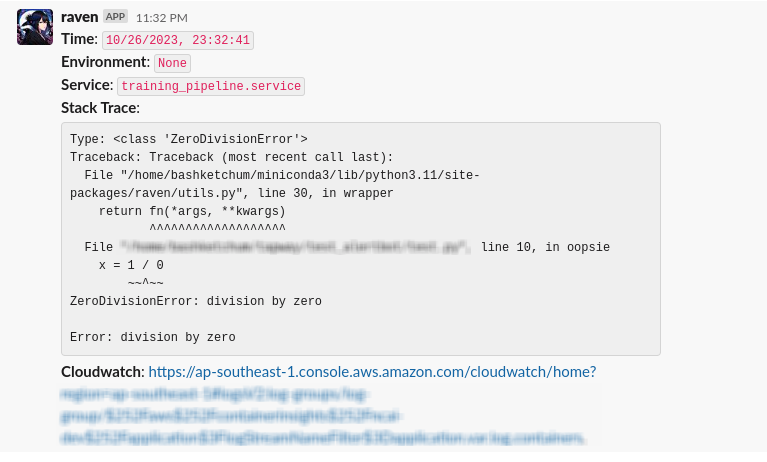
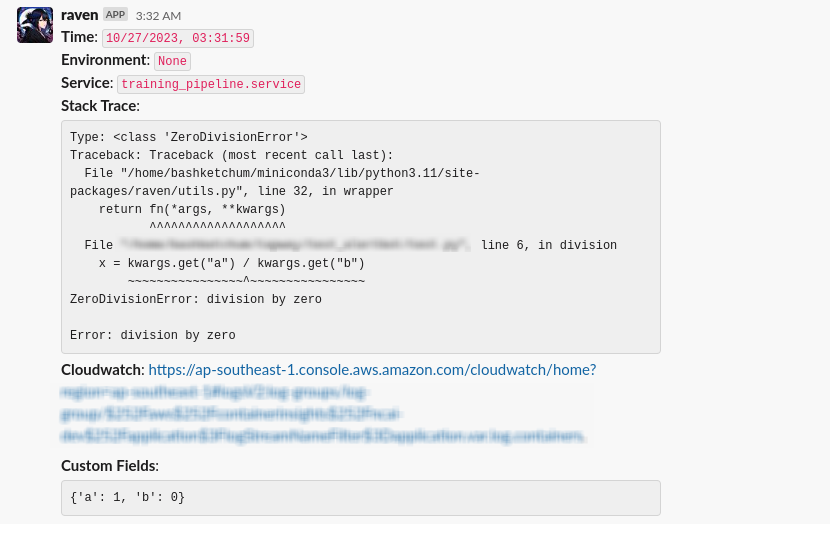
feat: updated readme

Changed region(s): [[0.0, 0.0, 0.7497, 0.5758], [0.06, 0.6061, 0.7797, 0.9697], [0.6297, 0.5152, 0.8096, 0.5455]]

diff --git a/README.md b/README.md
@@ -60,8 +60,10 @@ from raven.utils import alert
 @alert(
     config_path="raven_config.yaml"
 )
-def example_func():
-    x = 1/0 # this raises error, do not catch the error
+def division(**kwargs):
+    x = kwargs.get("a") / kwargs.get("b")
+
+division(a=1, b=0)
 ```
 
 Sends alert to specified channel in the yaml file,
@@ -73,8 +75,10 @@ from raven.utils import alert
     config_path="raven_config.yaml",
     channel="alert_channel"
 )
-def example_func():
-    x = 1/0 # this raises error, do not catch the error
+def division(**kwargs):
+    x = kwargs.get("a") / kwargs.get("b")
+
+division(a=1, b=0)
 ```
 
 #### In try-catch
@@ -82,14 +86,16 @@ def example_func():
 ```python
 from raven.utils import send_alert
 
-def example_func():
+def division(**kwargs):
     try:
-        x = 1/0
+        x = kwargs.get("a") / kwargs.get("b")
     except Exception:
         # for raven to catch this error
         send_alert_with_config(
             config_path="raven_config.yaml"
         )
+
+division(a=1, b=0)
 ```
 
 ### With token
@@ -117,8 +123,10 @@ from raven.utils import alert
     config_path="raven_config.yaml",
     token=<BOT_TOKEN>
 )
-def example_func():
-    x = 1/0 # this raises error, do not catch the error
+def division(**kwargs):
+    x = kwargs.get("a") / kwargs.get("b")
+
+division(a=1, b=0)
 ```
 
 Sends alert to specified channel in the yaml file,
@@ -131,8 +139,10 @@ from raven.utils import alert
     token=<BOT_TOKEN>,
     channel="alert_channel"
 )
-def example_func():
-    x = 1/0 # this raises error, do not catch the error
+def division(**kwargs):
+    x = kwargs.get("a") / kwargs.get("b")
+
+division(a=1, b=0)
 ```
 
 #### In try-catch
@@ -140,15 +150,17 @@ def example_func():
 ```python
 from raven.utils import send_alert
 
-def example_func():
+def division(**kwargs):
     try:
-        x = 1/0
+        x = kwargs.get("a") / kwargs.get("b")
     except Exception:
         # for raven to catch this error
         send_alert_with_config(
             config_path="raven_config.yaml",
             token=<BOT_TOKEN>
         )
+
+division(a=1, b=0)
 ```
 
 ### Using barebone API
@@ -162,8 +174,10 @@ from raven.utils import alert
     token=<YOUR SLACK TOKEN>,
     channel_id=<YOUR SLACK CHANNEL ID>,
 )
-def example_func():
-    x = 1/0 # this raises error, do not catch the error
+def division(**kwargs):
+    x = kwargs.get("a") / kwargs.get("b")
+
+division(a=1, b=0)
 ```
 
 #### In try-catch
@@ -171,9 +185,9 @@ def example_func():
 ```python
 from raven.utils import send_alert
 
-def example_func():
+def division(**kwargs):
     try:
-        x = 1/0
+        x = kwargs.get("a") / kwargs.get("b")
     except Exception:
         # for raven to catch this error
         send_alert(
